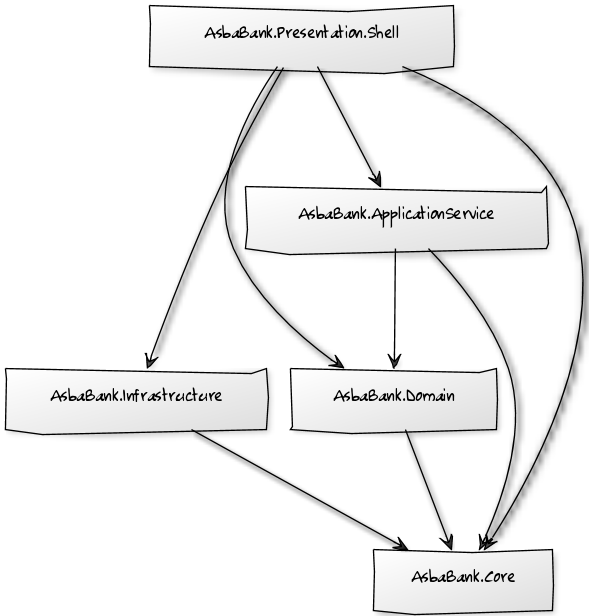
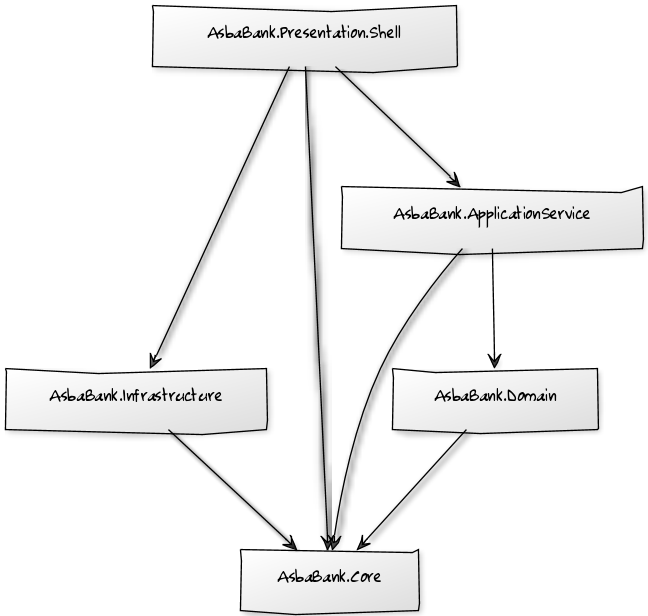
updated command handlers and project references

diff --git a/Module 3/02 Application Service/AsbaBank.ApplicationService/ClientService.cs b/Module 3/02 Application Service/AsbaBank.ApplicationService/ClientService.cs
@@ -1,17 +1,13 @@
-using AsbaBank.Core;
+using AsbaBank.ApplicationService.Commands;
+using AsbaBank.Core;
 using AsbaBank.Core.Commands;
-using AsbaBank.Domain.Commands;
 using AsbaBank.Domain.Models;
 
 namespace AsbaBank.ApplicationService
 {
-    public interface IClientService : 
+    public class ClientService : 
         IHandleCommand<RegisterClient>,
         IHandleCommand<UpdateClientAddress>
-    {
-    }
-
-    public class ClientService : IClientService
     {
         private readonly IUnitOfWork unitOfWork;
         private readonly ILog logger;

diff --git a/Module 3/02 Application Service/AsbaBank.ApplicationService/Commands/RegisterClient.cs b/Module 3/02 Application Service/AsbaBank.ApplicationService/Commands/RegisterClient.cs
@@ -3,7 +3,7 @@ using System.Runtime.Serialization;
 using AsbaBank.Core;
 using AsbaBank.Core.Commands;
 
-namespace AsbaBank.Domain.Commands
+namespace AsbaBank.ApplicationService.Commands
 {
     [DataContract]
     public class RegisterClient : ICommand

diff --git a/Module 3/03 Application-Service Host/AsbaBank.ApplicationService/Commands/RegisterClient.cs b/Module 3/03 Application-Service Host/AsbaBank.ApplicationService/Commands/RegisterClient.cs
@@ -3,7 +3,7 @@ using System.Runtime.Serialization;
 using AsbaBank.Core;
 using AsbaBank.Core.Commands;
 
-namespace AsbaBank.Domain.Commands
+namespace AsbaBank.ApplicationService.Commands
 {
     [DataContract]
     public class RegisterClient : ICommand

diff --git a/Module 3/03 Application-Service Host/AsbaBank.ApplicationService/ClientService.cs b/Module 3/03 Application-Service Host/AsbaBank.ApplicationService/ClientService.cs
@@ -1,6 +1,6 @@
-using AsbaBank.Core;
+using AsbaBank.ApplicationService.Commands;
+using AsbaBank.Core;
 using AsbaBank.Core.Commands;
-using AsbaBank.Domain.Commands;
 using AsbaBank.Domain.Models;
 
 namespace AsbaBank.ApplicationService

diff --git a/Module 3/02 Application Service/AsbaBank.ApplicationService/Commands/UpdateClientAddress.cs b/Module 3/02 Application Service/AsbaBank.ApplicationService/Commands/UpdateClientAddress.cs
@@ -2,7 +2,7 @@
 using System.Runtime.Serialization;
 using AsbaBank.Core.Commands;
 
-namespace AsbaBank.Domain.Commands
+namespace AsbaBank.ApplicationService.Commands
 {
     [DataContract]
     public class UpdateClientAddress : ICommand

diff --git a/Module 3/03 Application-Service Host/AsbaBank.ApplicationService/Commands/UpdateClientAddress.cs b/Module 3/03 Application-Service Host/AsbaBank.ApplicationService/Commands/UpdateClientAddress.cs
@@ -2,7 +2,7 @@
 using System.Runtime.Serialization;
 using AsbaBank.Core.Commands;
 
-namespace AsbaBank.Domain.Commands
+namespace AsbaBank.ApplicationService.Commands
 {
     [DataContract]
     public class UpdateClientAddress : ICommand

diff --git a/Module 3/03 Application-Service Host/AsbaBank.Presentation.Shell/CommandBuilders/RegisterClientBuilder.cs b/Module 3/03 Application-Service Host/AsbaBank.Presentation.Shell/CommandBuilders/RegisterClientBuilder.cs
@@ -1,7 +1,6 @@
 using System;
-
+using AsbaBank.ApplicationService.Commands;
 using AsbaBank.Core.Commands;
-using AsbaBank.Domain.Commands;
 
 namespace AsbaBank.Presentation.Shell.CommandBuilders
 {

diff --git a/Module 3/03 Application-Service Host/AsbaBank.Presentation.Shell/CommandBuilders/UpdateClientAddressBuilder.cs b/Module 3/03 Application-Service Host/AsbaBank.Presentation.Shell/CommandBuilders/UpdateClientAddressBuilder.cs
@@ -1,7 +1,6 @@
 using System;
-
+using AsbaBank.ApplicationService.Commands;
 using AsbaBank.Core.Commands;
-using AsbaBank.Domain.Commands;
 
 namespace AsbaBank.Presentation.Shell.CommandBuilders
 {

diff --git a/Module 3/02 Application Service/AsbaBank.Presentation.Shell/ShellCommands/RegisterClientBuilder.cs b/Module 3/02 Application Service/AsbaBank.Presentation.Shell/ShellCommands/RegisterClientBuilder.cs
@@ -1,7 +1,6 @@
 using System;
-
+using AsbaBank.ApplicationService.Commands;
 using AsbaBank.Core.Commands;
-using AsbaBank.Domain.Commands;
 
 namespace AsbaBank.Presentation.Shell.ShellCommands
 {

diff --git a/Module 3/02 Application Service/AsbaBank.Presentation.Shell/ShellCommands/UpdateClientAddressBuilder.cs b/Module 3/02 Application Service/AsbaBank.Presentation.Shell/ShellCommands/UpdateClientAddressBuilder.cs
@@ -1,6 +1,6 @@
 using System;
+using AsbaBank.ApplicationService.Commands;
 using AsbaBank.Core.Commands;
-using AsbaBank.Domain.Commands;
 
 namespace AsbaBank.Presentation.Shell.ShellCommands
 {
